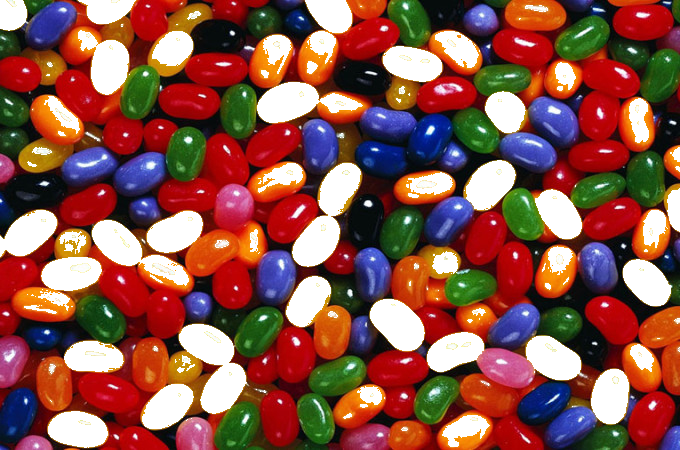
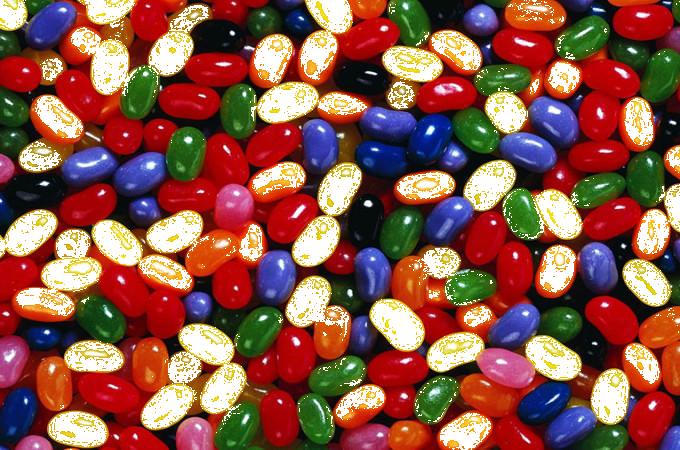
a

diff --git a/5.4/practice.py b/5.4/practice.py
@@ -1,7 +1,7 @@
 from PIL import Image
 
 def is_yellow(r,g,b):
-    if r > 150 and g > 150 and b < 150:
+    if r < 40 and g > 90 and b < 10:
         return True
     return False
 
@@ -20,3 +20,5 @@ for i in range(width):
             image_output.putpixel((i, j), (255, 255, 255))
 
 image_output.save("newBeans.png", "png")
+
+holy hair holy hair holy hair
